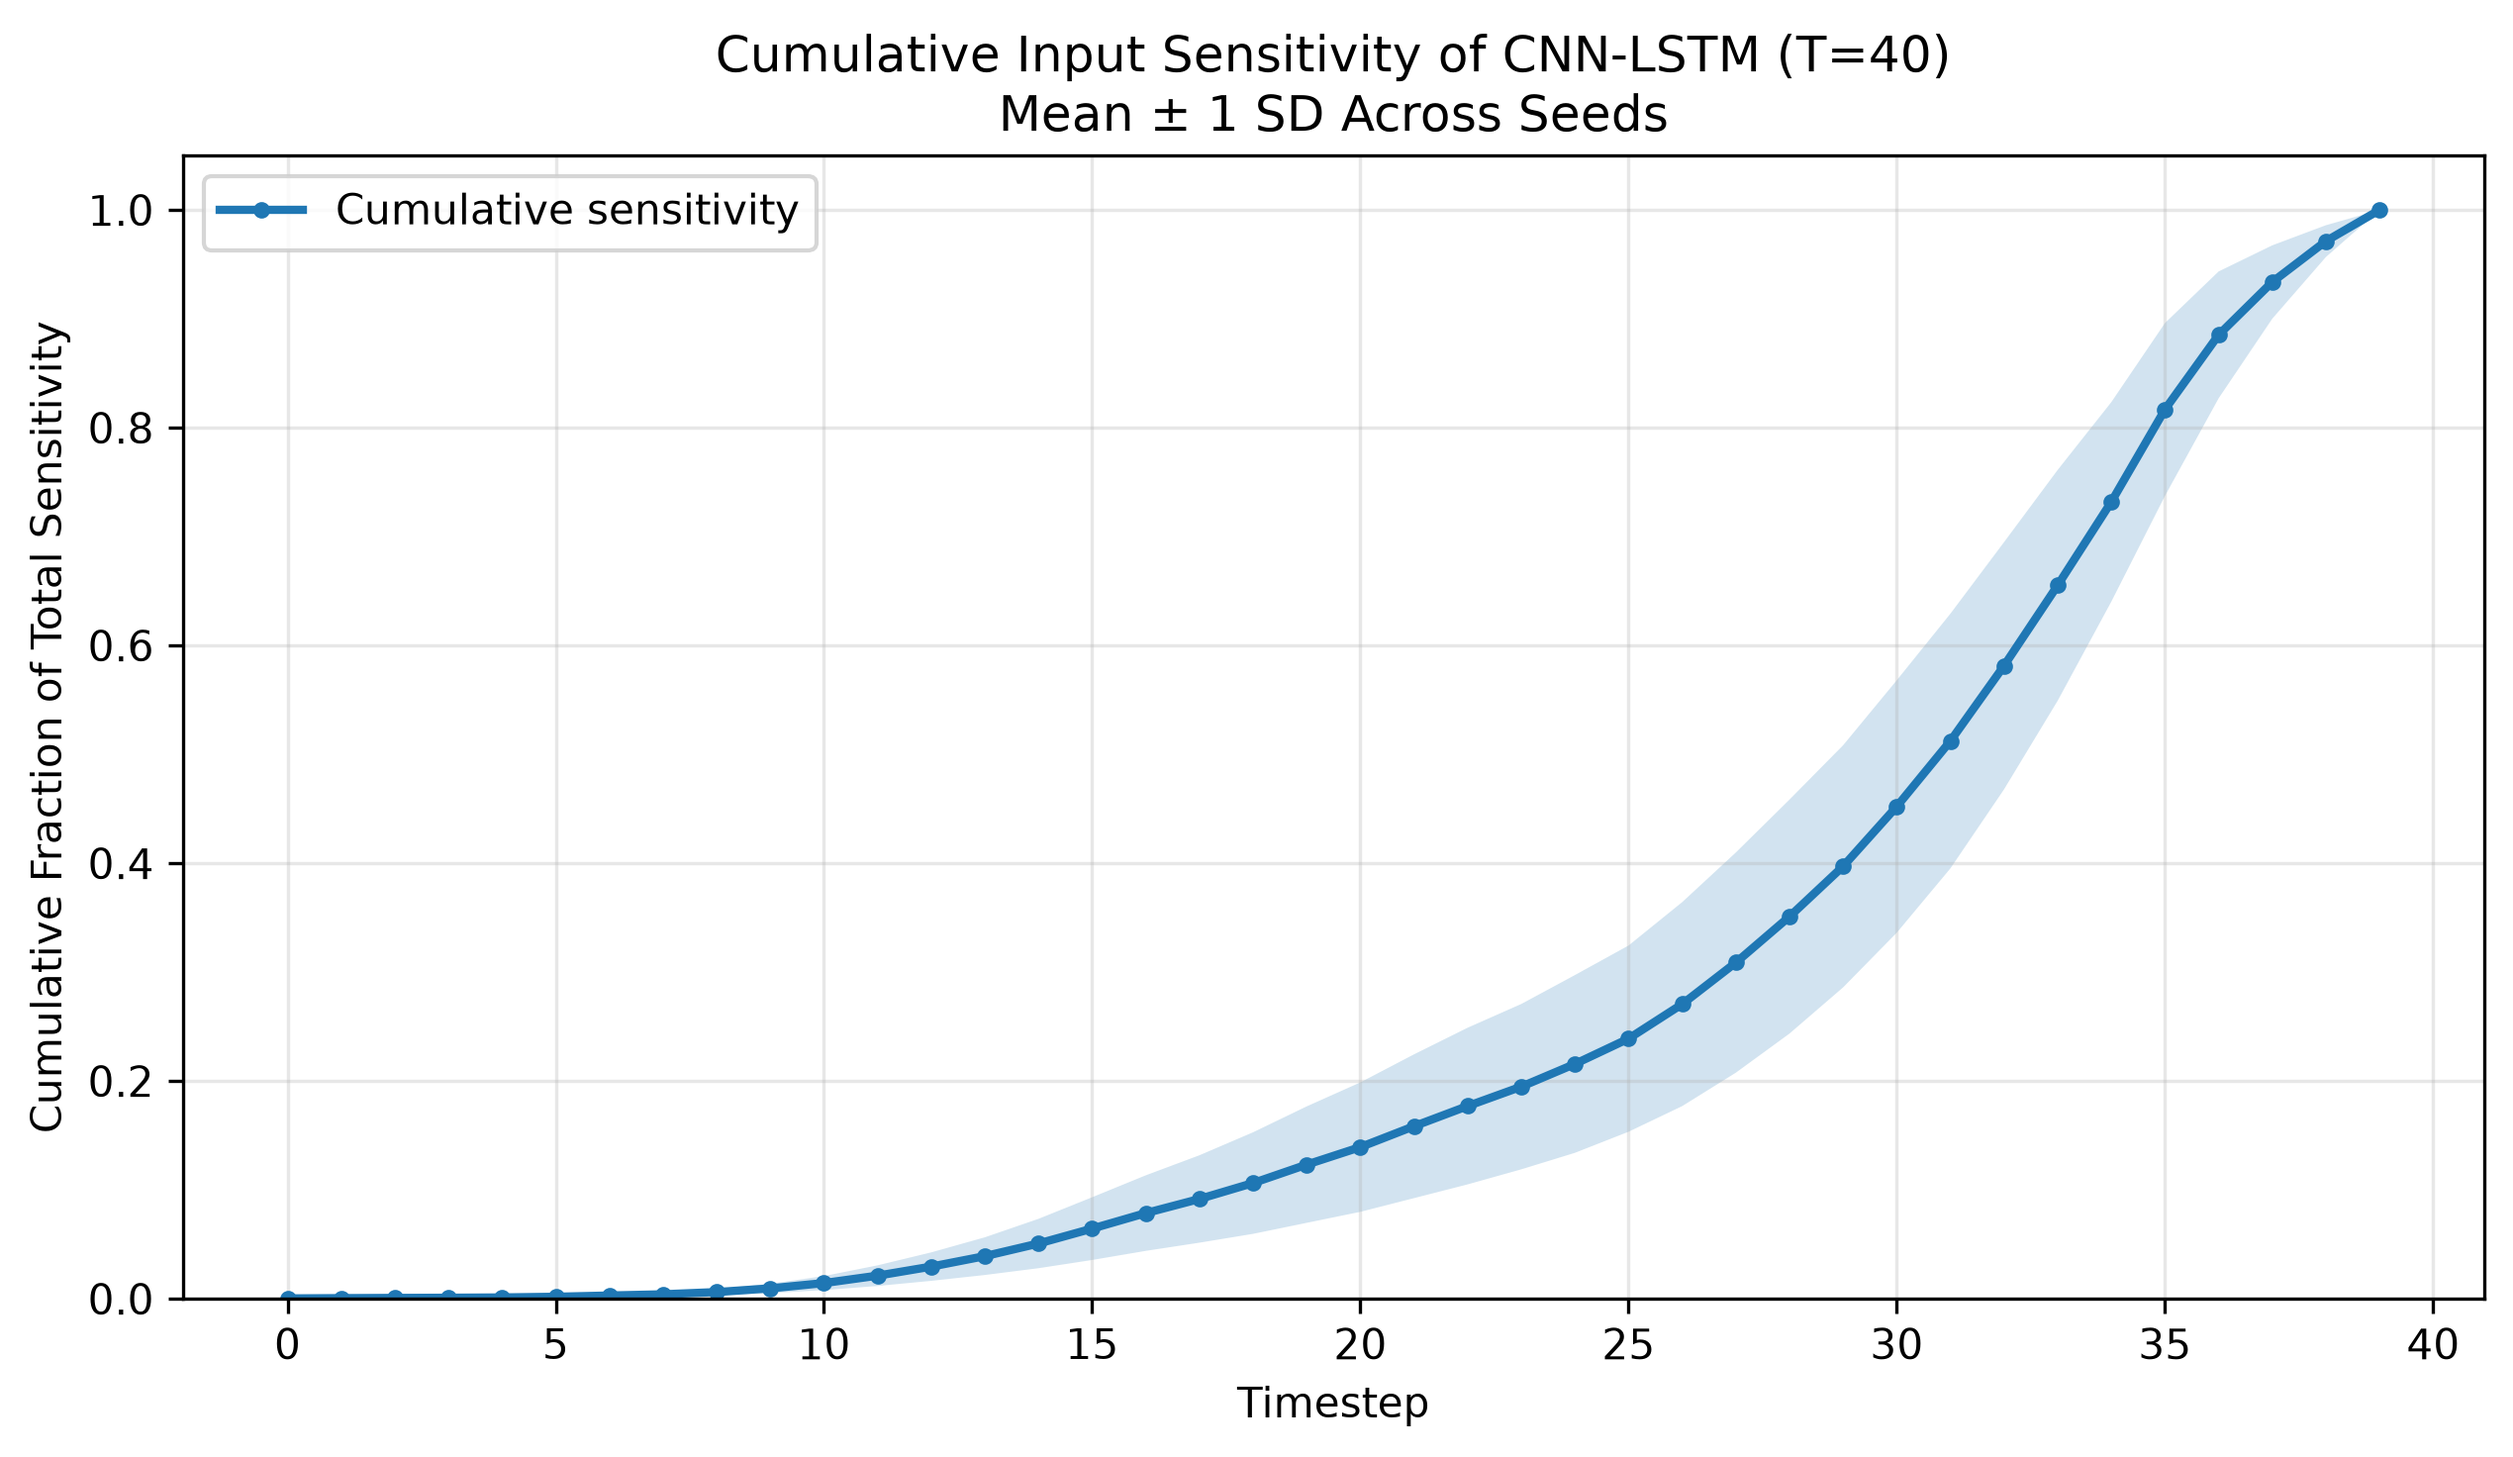
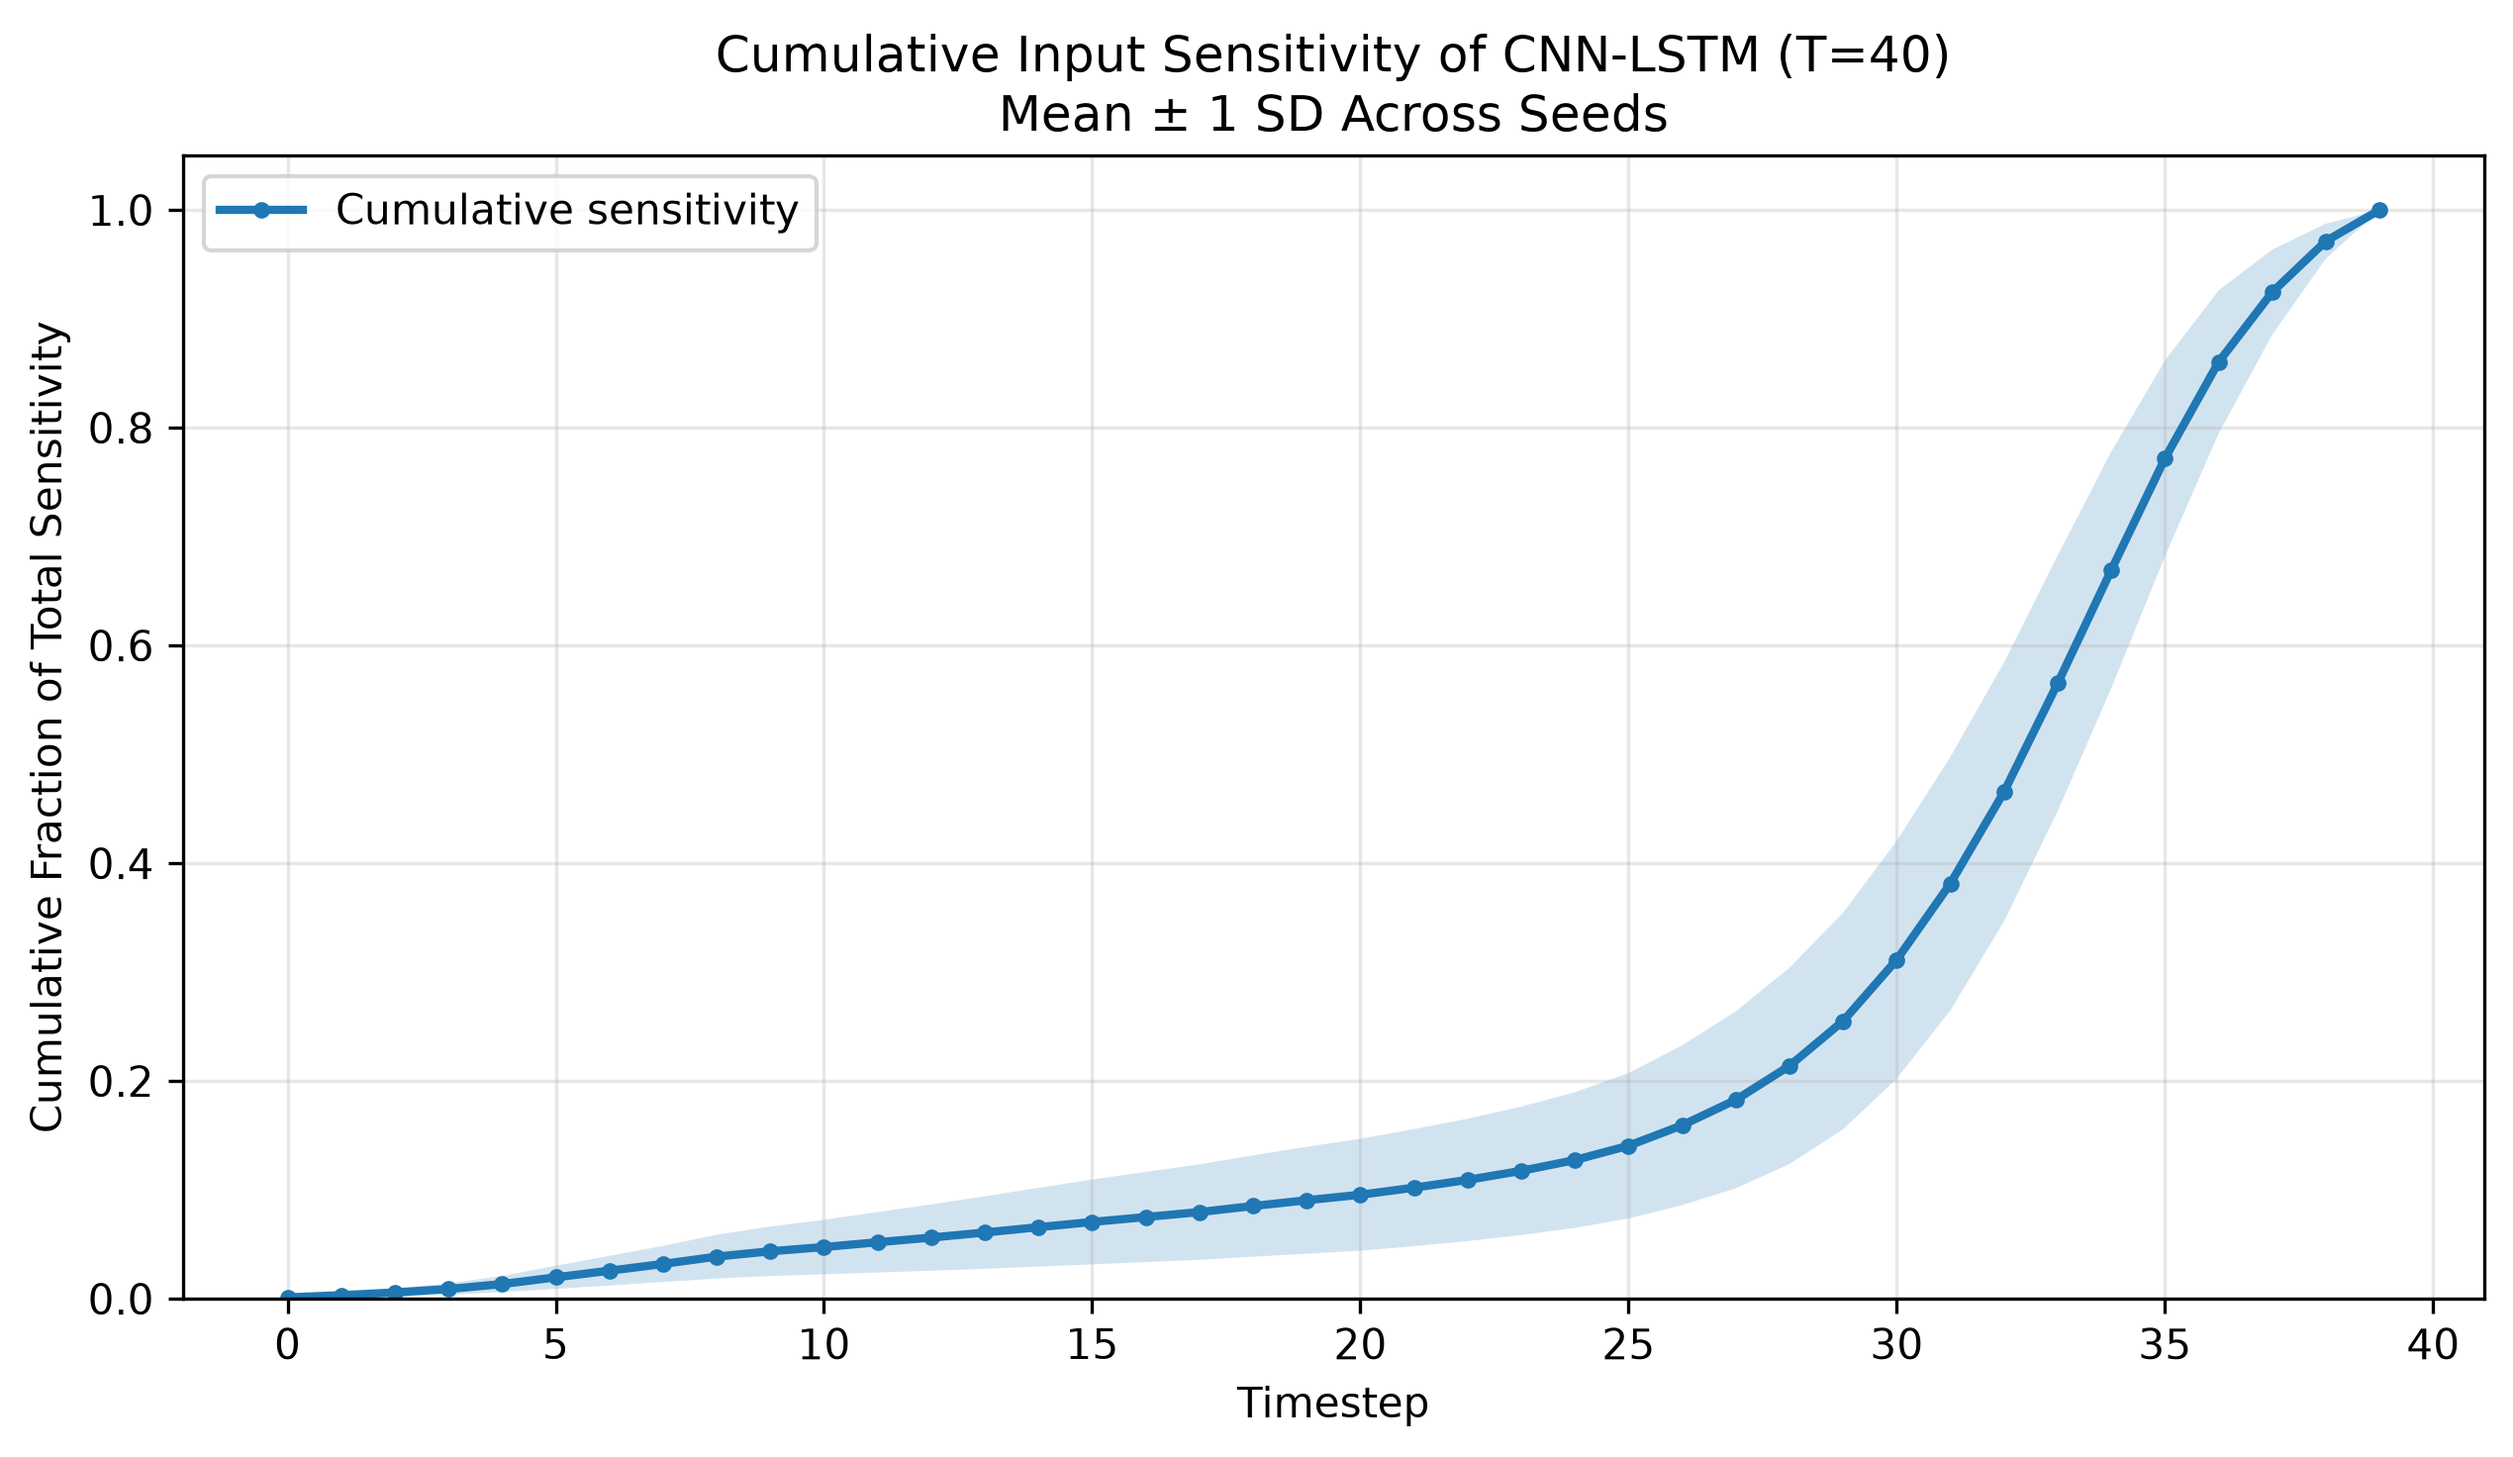
use integrated gradients instead of pertubation

Changed region(s): [[0.1245, 0.1562, 0.9334, 0.9062]]

diff --git a/UCR Dataset/sensitivity analysis/test_integrated_gradients_length.py b/UCR Dataset/sensitivity analysis/test_integrated_gradients_length.py
@@ -3,6 +3,7 @@ import torch.nn as nn
 import numpy as np
 import pandas as pd
 import matplotlib.pyplot as plt
+from captum.attr import IntegratedGradients
 from sklearn.preprocessing import LabelEncoder
 from sklearn.model_selection import train_test_split
 from sklearn.metrics import accuracy_score
@@ -113,34 +114,98 @@ def train_at_length(seed, length, epochs=50, patience=10, lr=1e-3):
 # the T=45 model actually rely on?
 # ============================================================
 
-def compute_input_sensitivity(model, X_sample, device, n_trials=20, noise_std=0.5):
+def compute_integrated_gradients(
+    model,
+    X_sample,
+    device,
+    batch_size=8,
+    n_steps=32
+):
+    """
+    Compute mean absolute Integrated Gradients importance
+    for each timestep.
+
+    X_sample shape: (N, 1, T).
+
+    The computation is batched to avoid the large memory
+    requirements of Integrated Gradients with an LSTM.
+    """
     model.eval()
-    T = X_sample.shape[2]
-    sensitivities = np.zeros(T)
-    X_sample = X_sample.to(device)
-    with torch.no_grad():
-        baseline = model(X_sample).cpu().numpy()
-    for t in range(T):
-        diffs = []
-        for _ in range(n_trials):
-            X_pert = X_sample.clone()
-            noise = torch.randn(X_pert.shape[0], device=device) * noise_std
-            X_pert[:, 0, t] += noise
-            with torch.no_grad():
-                pert_out = model(X_pert).cpu().numpy()
-            diffs.append(np.abs(pert_out - baseline).mean())
-        sensitivities[t] = np.mean(diffs)
-    return sensitivities
+
+    ig = IntegratedGradients(model)
+    all_attributions = []
+
+    for start in range(0, len(X_sample), batch_size):
+
+        X_batch = X_sample[start:start + batch_size].to(device)
+        baseline = torch.zeros_like(X_batch)
+
+        # Use the model's predicted class as the attribution target,
+        # matching the original sensitivity analysis's model-output basis.
+        with torch.no_grad():
+            pred_class = model(X_batch).argmax(dim=1)
+
+        attributions = ig.attribute(
+            X_batch,
+            baselines=baseline,
+            target=pred_class,
+            n_steps=n_steps,
+            internal_batch_size=batch_size
+        )
+
+        all_attributions.append(
+            attributions.detach().cpu()
+        )
+
+        del X_batch, baseline, attributions
+
+        if torch.cuda.is_available():
+            torch.cuda.empty_cache()
+
+    # Average across the actual samples, not across batches.
+    all_attributions = torch.cat(all_attributions, dim=0)
+
+    importance = (
+        all_attributions.abs()
+        .mean(dim=0)
+        .squeeze(0)
+        .numpy()
+    )
+
+    return importance
+
 
 
 sensitivity_results = []
 
 for seed in SEEDS:
     model, X_test_at_len = train_at_length(seed, LENGTH)
-    X_test_t = torch.tensor(X_test_at_len).unsqueeze(1)
-    sens = compute_input_sensitivity(model, X_test_t[:30], device)  # 30 samples for speed
+
+    # IMPORTANT:
+    # X_test_at_len has exactly LENGTH timestamps because the model was
+    # trained and evaluated at this same temporal length.
+    X_test_t = torch.tensor(
+        X_test_at_len,
+        dtype=torch.float32
+    ).unsqueeze(1)
+
+    # Keep the original experimental design:
+    # sensitivity is computed on the first 30 test samples for EVERY T.
+    # Thus T=40 -> 40 IG values, T=45 -> 45 IG values, etc.
+    sens = compute_integrated_gradients(
+        model,
+        X_test_t[:30],
+        device,
+        batch_size=8,
+        n_steps=32
+    )
+
     sensitivity_results.append(sens)
-    print(f"Seed {seed} | sensitivity at last 5 timesteps: {sens[-5:]}")
+
+    print(
+        f"Seed {seed} | T={LENGTH} | "
+        f"IG importance at last 5 timesteps: {sens[-5:]}"
+    )
 
 sens_arr = np.stack(sensitivity_results)
 sens_mean = sens_arr.mean(axis=0)
